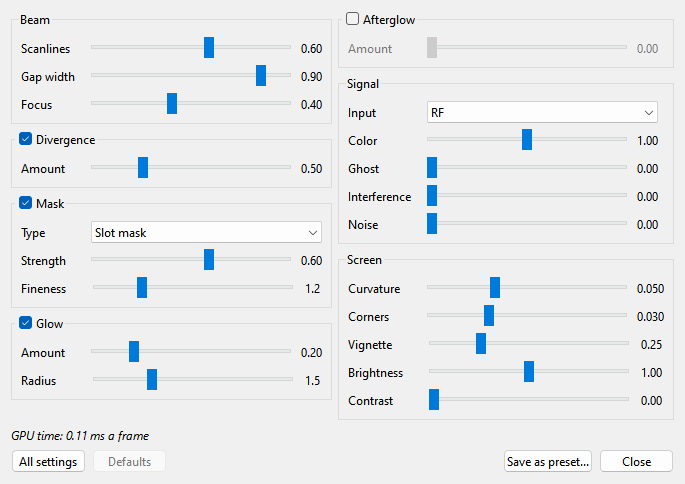
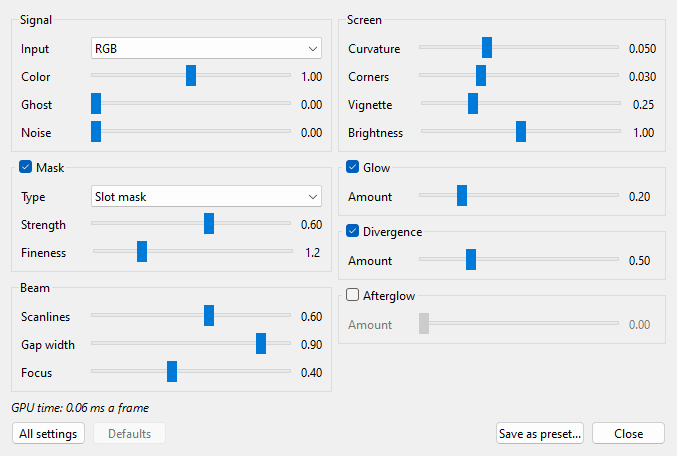
manual: Display - the frames' order; the sheet's picture

diff --git a/docs/manual/view.md b/docs/manual/view.md
@@ -184,27 +184,28 @@ as you left it.
 A tube's settings are in frames, one a part of the tube; a frame with a tick is a part
 that can be switched off, and then costs nothing:
 
-- **Beam** - **Scanlines**, how dark the gap between two lines is; **Gap width**, how much
-  of a line it takes; **Focus**, how sharp a dot is along the line;
-- **Divergence** - how far the red and the blue beam land from the green one, more towards
-  the screen's edges;
-- **Mask** - **Aperture grille**, **Slot mask** or **Shadow mask**, its **Strength** and
-  **Fineness**: how many triads of the mask a dot of the picture has. The mask is drawn in
-  whole screen pixels, so in a small window it is coarser than the number says;
-- **Glow** - light around bright things, and how far it reaches;
-- **Afterglow** - how much of a lit dot is left a frame later;
 - **Signal** - **Input**, the cable: **RGB** as a monitor gets it, **Composite** or **RF** as
   a PAL TV set does, with the colors a real set made of fine patterns and at color edges,
   or **SECAM**, a set of that system, on which a fine pattern turns one flat warm color;
   **Color**, how strong they are; **Ghost**, a faint second picture beside the first;
-  **Interference**, a wave that pushes the lines aside; **Noise**. **Color carrier** is the
-  encoder the picture comes through, whatever the machine: a **128K**'s, whose color
-  pattern stands still - programs that paint with it, such as Chromatrons Attack, need
-  this one - or a **48K**'s, whose pattern crawls. Under **All settings**, **Phase** picks
-  one of the eight ways a 128K's pattern can fall, as the machine picks one at power-on,
-  and **Shimmer** is how much of the pattern's flicker from frame to frame shows;
-- **Screen** - **Curvature**, **Corners**, **Vignette**, **Brightness**, **Contrast**. A small
-  picture, under about three screen pixels a dot, stays flat.
+  **Noise**. Under **All settings**: **Color carrier**, the encoder the picture comes
+  through, whatever the machine - a **128K**'s, whose color pattern stands still (programs
+  that paint with it, such as Chromatrons Attack, need this one), or a **48K**'s, whose
+  pattern crawls; **Phase**, one of the eight ways a 128K's pattern can fall, as the
+  machine picks one at power-on; **Shimmer**, how much of the pattern's flicker from frame
+  to frame shows; **Interference**, a wave that pushes the lines aside;
+- **Mask** - **Aperture grille**, **Slot mask** or **Shadow mask**, its **Strength** and
+  **Fineness**: how many triads of the mask a dot of the picture has. The mask is drawn in
+  whole screen pixels, so in a small window it is coarser than the number says;
+- **Beam** - **Scanlines**, how dark the gap between two lines is; **Gap width**, how much
+  of a line it takes; **Focus**, how sharp a dot is along the line;
+- **Screen** - **Curvature**, **Corners**, **Vignette**, **Brightness**. A small picture,
+  under about three screen pixels a dot, stays flat. A curved picture goes on to the edge
+  of its place as its border does, and the corners are rounded there;
+- **Glow** - light around bright things;
+- **Divergence** - how far the red and the blue beam land from the green one, more towards
+  the screen's edges;
+- **Afterglow** - how much of a lit dot is left a frame later.
 
 Under the frames is the **GPU time** the look takes of the graphics card for a frame.
 
